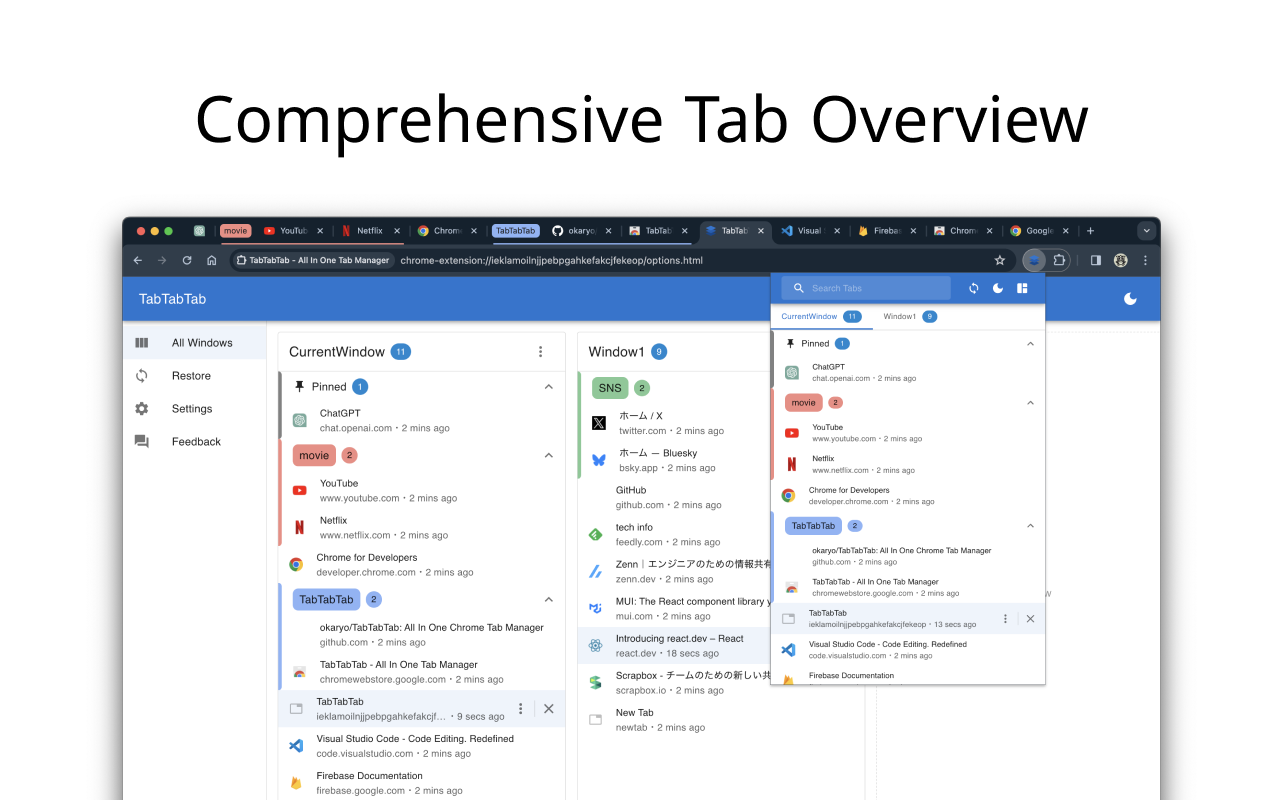
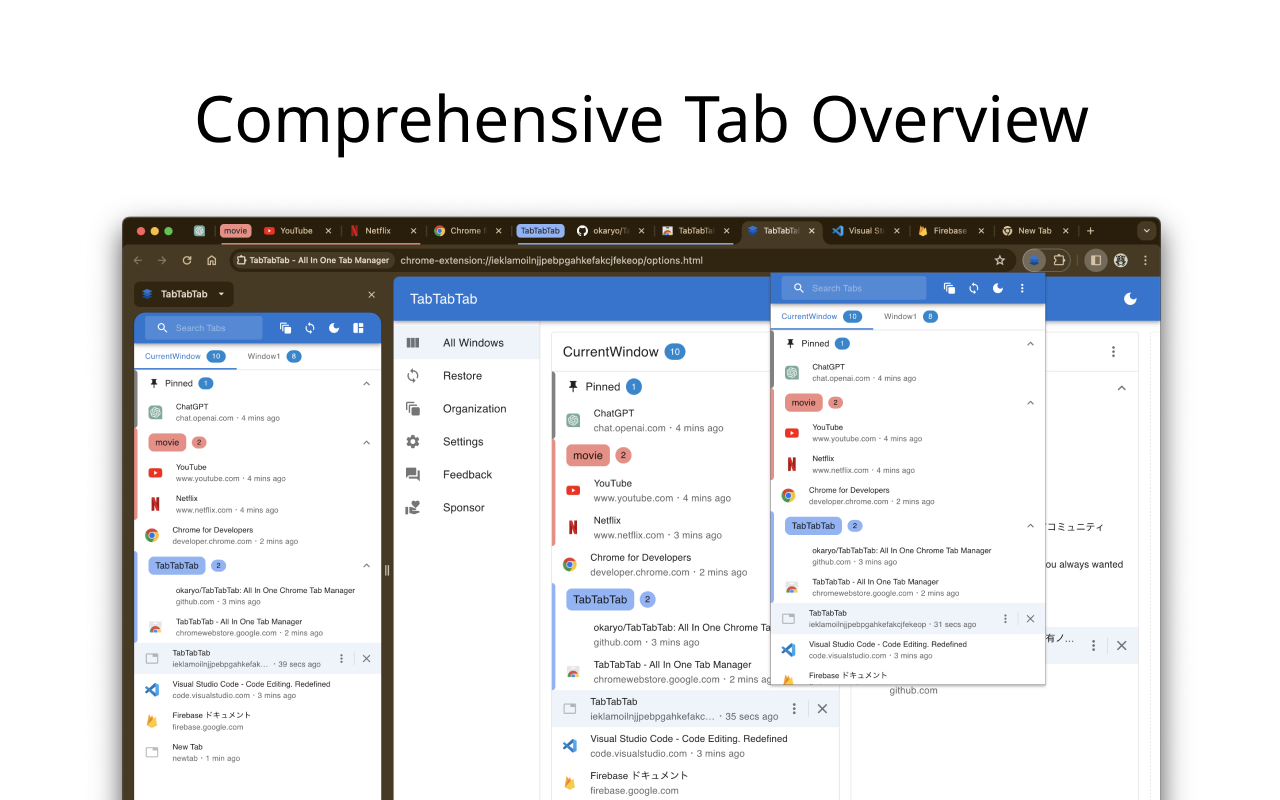
docs: update README to add SidePanel feature

Changed region(s): [[0.0938, 0.25, 0.9062, 1.0], [0.8125, 0.6875, 0.875, 0.7188], [0.6562, 0.8438, 0.7188, 0.875]]

diff --git a/README.md b/README.md
@@ -36,9 +36,10 @@ TabTabTab is a Chrome extension that supports your browsing by improving tab man
 * Screenshot Tool: Quickly capture the active tab's visible area.
 * Efficient Navigation & Search: Jump to or find your desired tabs in seconds.
 * Automatic Cleanup: Auto-remove tabs you haven't accessed based on your preferences.
+* Side Panel Tab Overview: Easily access a list of your tabs through a convenient side panel.
 * Dark Mode: Switch to a darker, more focused look whenever you wish.
 
-### 👀 ScreenShots(v2.28.0)
+### 👀 ScreenShots(v2.29.0)
 
 ![ScreenShot1](./docs/screenshot1.png)
 ![ScreenShot2](./docs/screenshot2.png)
